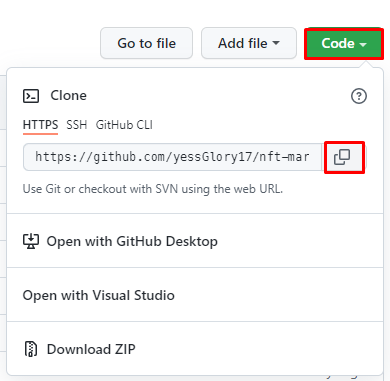
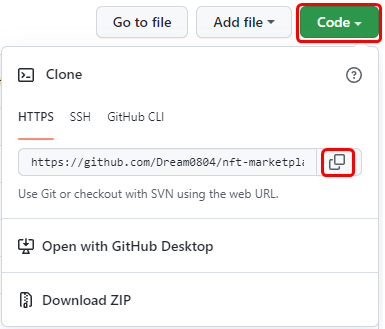
NFT-simple-project

Changed region(s): [[0.0, 0.152, 0.9662, 1.0], [0.2494, 0.0, 0.9974, 0.2736], [0.2494, 0.0, 0.2805, 0.0304]]

diff --git a/README.md b/README.md
@@ -1,54 +1,3 @@
-# Open Source Nft Marketplace [Onprogress %10]
-<!-- ALL-CONTRIBUTORS-BADGE:START - Do not remove or modify this section -->
-[![All Contributors](https://img.shields.io/badge/all_contributors-4-orange.svg?style=flat-square)](#contributors-)
-<!-- ALL-CONTRIBUTORS-BADGE:END -->
-Reactjs And Smart Contracts Open Source Basic Nft Marketplace App
-
-> ## ⭐ Support Us
-> If you like our project, do not forget to give stars. So we can get more attention and get more support from the community. Don't underestimate one star, one  star you give will convince others to give the project another star.
-
-
-## 💪 Motivation
-
-<p>
-I aim to create an open and safe nft marketplace for everyone. This will be a challenge for both me and the contributors. Together we will create an open source, reliable and beautiful nft marketplace example. The purpose of this project is not to operate an nft marketplace, but to create a template for nft marketplaces. Thus, many nft marketplaces can be easily created by forking and modifying this template. This will be beneficial for us to support the artists. We can only succeed in the world by coming from different areas and joining our forces.
-</p>
-
-## 🖥 Screenshoots 
-
-### Home
-
-![](docs/images/home.png)
-
-### Explore
-
-![explore](docs/images/explore.png)
-
-### Nft Detail
-![detail](docs/images/nft-detail.png)
-
-### Augmented Reality Support
-![ar](https://user-images.githubusercontent.com/52113663/158027335-daa154ab-4f15-4cdb-82b8-9cabd4f415e9.png)
-![ar](https://user-images.githubusercontent.com/52113663/158027735-91607437-b157-4076-996f-e0825745fbaf.png)
-[![NFT Marketplace Augmented Reality Support Video](https://res.cloudinary.com/marcomontalbano/image/upload/v1647124081/video_to_markdown/images/youtube--Ch-1Hmz1NwU-c05b58ac6eb4c4700831b2b3070cd403.jpg)](https://www.youtube.com/watch?v=Ch-1Hmz1NwU "NFT Marketplace Augmented Reality Support Video")
-## 🎉 Roadmap
-
-
-
- - [x] Base Components (9/9) (Base components of the project )
- - [ ] Search Filters for Explore Page
- - [x] Connect Wallet (ETH Wallets)(Supports Other Wallets 🚀)
- - [x] NFT Detail Page
- - [ ] Smartcontract Backend (Truffle)
- - [ ] Community Page
- - [x] Login
- - [ ] NFT Create Page
- - [ ] Users Pages
- - [ ] User Collections
- - [ ] Connect Wallet Popup
- - [ ] Supported Mobile Devices
- - [x] AR supports for 3d NFTs
-
 ## 🔮 Usage
 In the project directory, you can run:
 
@@ -56,33 +5,6 @@ In the project directory, you can run:
 ### `npm start`
 
 
-## 🗞 Docs
- - [Base Components](https://github.com/yessGlory17/nft-marketplace/blob/main/docs/design/BaseComponents.md)
-
 ## 🤝 Contribute
 If you want to contribute to this project, simply follow the steps in the contribution guide. I look forward to your contributions. 😊
-[CONTRIBUTING.md](https://github.com/yessGlory17/nft-marketplace/blob/main/CONTRIBUTING.md)
-
-
-## Contributors ✨
-
-Thanks goes to these wonderful people ([emoji key](https://allcontributors.org/docs/en/emoji-key)):
-
-<!-- ALL-CONTRIBUTORS-LIST:START - Do not remove or modify this section -->
-<!-- prettier-ignore-start -->
-<!-- markdownlint-disable -->
-<table>
-  <tr>
-    <td align="center"><a href="https://github.com/GehadSalemFekry"><img src="https://avatars.githubusercontent.com/u/57755639?v=4?s=100" width="100px;" alt=""/><br /><sub><b>Gehad Salem Fekry</b></sub></a><br /><a href="#content-GehadSalemFekry" title="Content">🖋</a></td>
-    <td align="center"><a href="https://github.com/digambar-t7"><img src="https://avatars.githubusercontent.com/u/92970968?v=4?s=100" width="100px;" alt=""/><br /><sub><b>Digambar Tupurwadi</b></sub></a><br /><a href="https://github.com/yessGlory17/nft-marketplace/issues?q=author%3Adigambar-t7" title="Bug reports">🐛</a></td>
-    <td align="center"><a href="https://github.com/burakkaraceylan"><img src="https://avatars.githubusercontent.com/u/84451726?v=4?s=100" width="100px;" alt=""/><br /><sub><b>burakkaraceylan</b></sub></a><br /><a href="https://github.com/yessGlory17/nft-marketplace/commits?author=burakkaraceylan" title="Code">💻</a></td>
-    <td align="center"><a href="https://bandism.net/"><img src="https://avatars.githubusercontent.com/u/22633385?v=4?s=100" width="100px;" alt=""/><br /><sub><b>Ikko Ashimine</b></sub></a><br /><a href="#content-eltociear" title="Content">🖋</a></td>
-  </tr>
-</table>
-
-<!-- markdownlint-restore -->
-<!-- prettier-ignore-end -->
-
-<!-- ALL-CONTRIBUTORS-LIST:END -->
-
-This project follows the [all-contributors](https://github.com/all-contributors/all-contributors) specification. Contributions of any kind welcome!
+[CONTRIBUTING.md](https://github.com/Dream0804/nft-marketplace/blob/main/CONTRIBUTING.md)
